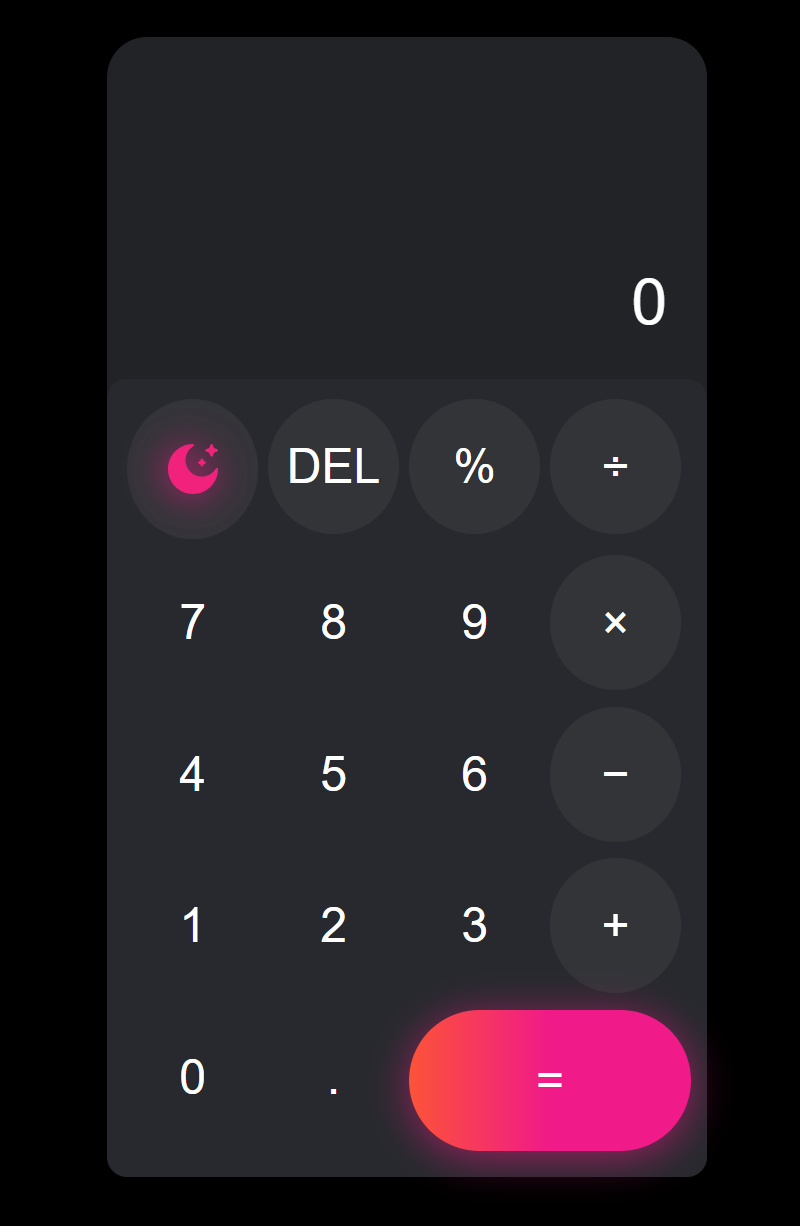
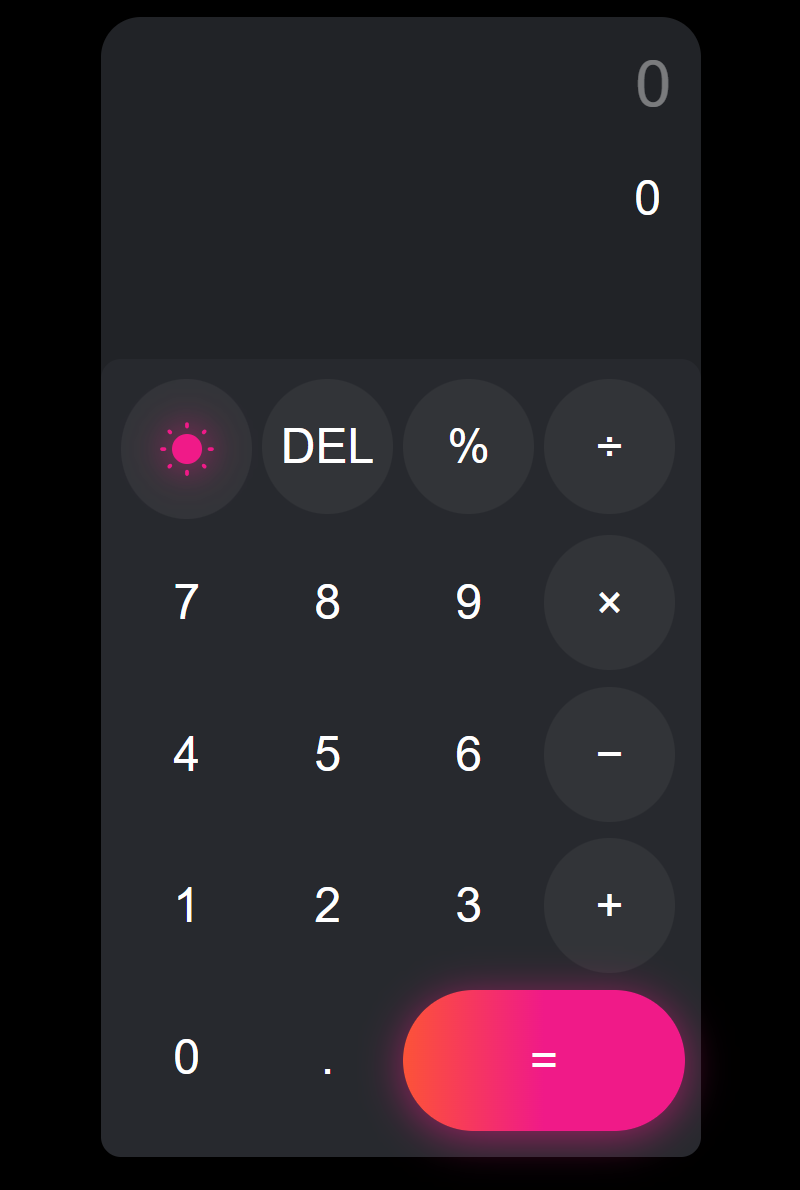
finish the app

diff --git a/main.js b/main.js
@@ -1,11 +1,11 @@
-let switchMode = document.querySelector(".icon-button");
-let calculator = document.querySelector(".calculator");
-let icon = document.querySelector(".icon");
-let equal = document.querySelector(".equals");
-let calculatorNumbers = document.querySelector(".calculator-buttons");
-let buttons = document.querySelectorAll(".button");
-let operators = document.querySelectorAll(".operator")
-let iconButton = document.querySelector(".button")
+const switchMode = document.querySelector(".icon-button");
+const calculator = document.querySelector(".calculator");
+const icon = document.querySelector(".icon");
+const equal = document.querySelector(".equals");
+const calculatorNumbers = document.querySelector(".calculator-buttons");
+const buttons = document.querySelectorAll(".button");
+const operators = document.querySelectorAll(".operator")
+const iconButton = document.querySelector(".button")
 
 // switch color theme
 
@@ -33,7 +33,6 @@ if (localStorage.getItem("theme") === "dark") {
 switchMode.addEventListener("click", () => {
     if (localStorage.getItem("theme") === null) {
         localStorage.setItem("theme", "light");
-        console.log("yoooo")
     }
     if (localStorage.getItem("theme") === "light") {
         switchToDarkMood();
@@ -57,22 +56,126 @@ switchMode.addEventListener("click", () => {
     }
 });
 
-// calculating
+// display the content
 
-let displayed = document.querySelector(".calculator-display");
+const displayed = document.querySelector(".calculator-display");
 
 function displayElement(element) {
     displayed.textContent += element.textContent;
 }
 
+// an object has the operations availble on the calculator and give each one it's precedence
+const operationsPrecedence = {
+    "+": 1,
+    "-": 1,
+    "×": 2,
+    "÷": 2,
+    "%": 2
+};
+
+// turn infix notation expression into postfix notation expression
+function calculate(operation) {
+    // turn the operation into an array
+    operation = operation.split(/([%÷×−+])/);
+
+    // turn infix into postfix
+    let queue = []; // FIFO 123, 123 push(in), shift(out)
+    let operationStack = []; // LIFO 123, 321 push(in), pop(out)
+
+    // loop through the operation
+    for (let char of operation) {
+        // if the current character is a digit push it into the queue
+        if (/\d+/.test(char)) {
+            queue.push(char);
+        }
+        // if the current character is an operator
+        else if (/[%÷×−+]/.test(char)) {
+            // if the stack is empty just push the character
+            if (operationStack.length === 0) {
+                operationStack.push(char);
+            }
+            // otherwise the stack is not empty 
+            else {
+                // compair between the precedence of the current character "which is necesserly an operator" and the one at the top of the stack
+
+                // if the current character has a greater precedence
+                if (operationsPrecedence[char] > operationsPrecedence[operationStack[operationStack.length - 1]]) {
+                    // push it into the stack
+                    operationStack.push(char);
+
+                }
+                // else it's equal in precedence or the top operator on the stack is greater precedence
+                else {
+                    // loop through the stack and push the operator from it to the queue
+                    for (let ope of operationStack) {
+                        // push the operator into queue
+                        queue.push(ope);
+                        // remove the operator from the stack
+                        operationStack.pop();
+                    }
+                    operationStack.push(char);
+                }
+            }
+        }
+    }
+    for (let ope of operationStack) {
+        queue.push(ope);
+        operationStack.pop()
+    }
+
+    // change −, ÷, ×
+    queue = queue.toString().replaceAll(",", " "); // turn queue to a string 
+    queue = queue
+        .replace(/−/g, '-')   // Replace − with -
+        .replace(/÷/g, '/')   // Replace ÷ with /
+        .replace(/×/g, '*');  // Replace × with *
+
+    queue = queue.split(" "); // get it back to be an array
+
+    // calculat it and return the result
+
+    let resultStack = [];
+    let evaluate;
+
+    for (let element of queue) {
+        // if we have element is a number then add it to resultStack
+        if (/\d+/.test(element)) {
+            resultStack.push(element);
+        } 
+        // otherwise evaluate the two numbers currently in resultStack and add the result to the resultStack again
+        else {
+            evaluate = resultStack[0];
+            evaluate += element;
+            evaluate += resultStack[1];
+            // overide the reusltStack with a new array has a result of the evaluation
+            resultStack = [eval(evaluate)];
+        }
+    }
+
+    return resultStack[0];
+}
+
+const resultDisplay = document.querySelector(".display-result");
+
 buttons.forEach(element => {
     element.addEventListener("click", () => {
         if (element.classList.contains("icon-button")) {
-            console.log("icon is here");
-        } else if(element.classList.contains("delete")){
             return;
-        } else if(element.classList.contains("equals")) {
-            console.log("equals is here")
+        } else if ((displayed.textContent === ("0") || /^.+[%÷×−+.]$/.test(displayed.textContent)) && /^[%÷×−+.]$/.test(element.textContent)) {
+            return;
+        } else if (element.classList.contains("delete")) {
+            displayed.textContent = displayed.textContent.slice(0, -1);
+            if (displayed.textContent === "") {
+                displayed.textContent = "0";
+            }
+        } else if (element.classList.contains("equals")) {
+            if (/^.+[%÷×−+.]$/.test(displayed.textContent)) {
+                return
+            } else {
+                let result = calculate(displayed.textContent);
+                resultDisplay.textContent = result;
+                displayed.textContent = "0";
+            }
         } else if (displayed.textContent === "0") {
             displayed.textContent = "";
             displayElement(element);
@@ -81,5 +184,3 @@ buttons.forEach(element => {
         }
     });
 });
-
-

diff --git a/style.css b/style.css
@@ -18,7 +18,7 @@ body {
 .calculator {
     position: relative;
     display: grid;
-    grid-template-rows: 30% 70%;
+    grid-template-rows: 10% 20% 70%;
     background-color: white;
     width: 300px;
     height: 570px;
@@ -26,15 +26,22 @@ body {
 }
 
 /* Calculator Container */
+.display-result {
+    padding: 15px;
+    width: 100%;
+    height: 1%;
+    font-size: 2rem;
+    text-align: end;
+    opacity: .4;
+}
 
 /* Display */
 .calculator-display {
-    text-align: right;
-    font-size: 2rem;
-    padding: 20px;
     display: flex;
     justify-content: flex-end;
-    /* align-items: flex-end; */
+    text-align: right;
+    font-size: 1.5rem;
+    padding: 20px;
     border-top-left-radius: 15px;
     border-top-right-radius: 15px;
     overflow-y: scroll;
@@ -49,11 +56,13 @@ body {
     /* Ensures long words or numbers break */
     word-break: break-all;
     /* Forces breaking between any character, even in numbers */
+
 }
+
+/* Chrome, Safari, and Opera */
 
 .calculator-display::-webkit-scrollbar {
     display: none;
-    /* Chrome, Safari, and Opera */
 }
 
 /* Buttons Container */
@@ -65,6 +74,7 @@ body {
     border-radius: 10px;
     padding: 10px;
 }
+
 
 /* Buttons */
 .button {

diff --git a/index.html b/index.html
@@ -4,6 +4,11 @@
 <head>
     <meta charset="UTF-8">
     <meta name="viewport" content="width=device-width, initial-scale=1.0">
+    <!-- for fast showing up on github pages -->
+    <meta http-equiv='cache-control' content='no-cache'>
+    <meta http-equiv='expires' content='0'>
+    <meta http-equiv='pragma' content='no-cache'>
+    <!-- github pages -->
     <title>Calculator</title>
     <link rel="icon" href="imgs/calculator.png">
     <link rel="stylesheet" href="style.css">
@@ -11,9 +16,11 @@
 
 <body>
     <main class="calculator">
+        <div class="display-result">0</div>
         <div class="calculator-display" id="display">0</div>
         <div class="calculator-buttons">
-            <button class="button operator icon-button" data-action="switch"><img class="icon" src="imgs/moon-stars.svg"></button>
+            <button class="button operator icon-button" data-action="switch"><img class="icon"
+                    src="imgs/moon-stars.svg"></button>
             <button class="button operator delete" data-action="delete">DEL</button>
             <button class="button operator" data-action="percent">%</button>
             <button class="button operator" data-action="divide">÷</button>

diff --git a/README.md b/README.md
@@ -1,5 +1,8 @@
 Hi, This is a calculator app for applying my js skills ability, If you have any recommendations or feedback please share it with me ;).
 
-![dark theme app view](imgs/the-app-dark-theme.png) ![light theme app view](imgs/the-app-light-theme.png)
 
 [live page link](https://manilomonilo.github.io/calculator/)
+
+Dark theme             |  Light theme
+:-------------------------:|:-------------------------:
+![dark theme app view](imgs/the-app-dark-theme.png)  |   ![light theme app view](imgs/the-app-light-theme.png)
